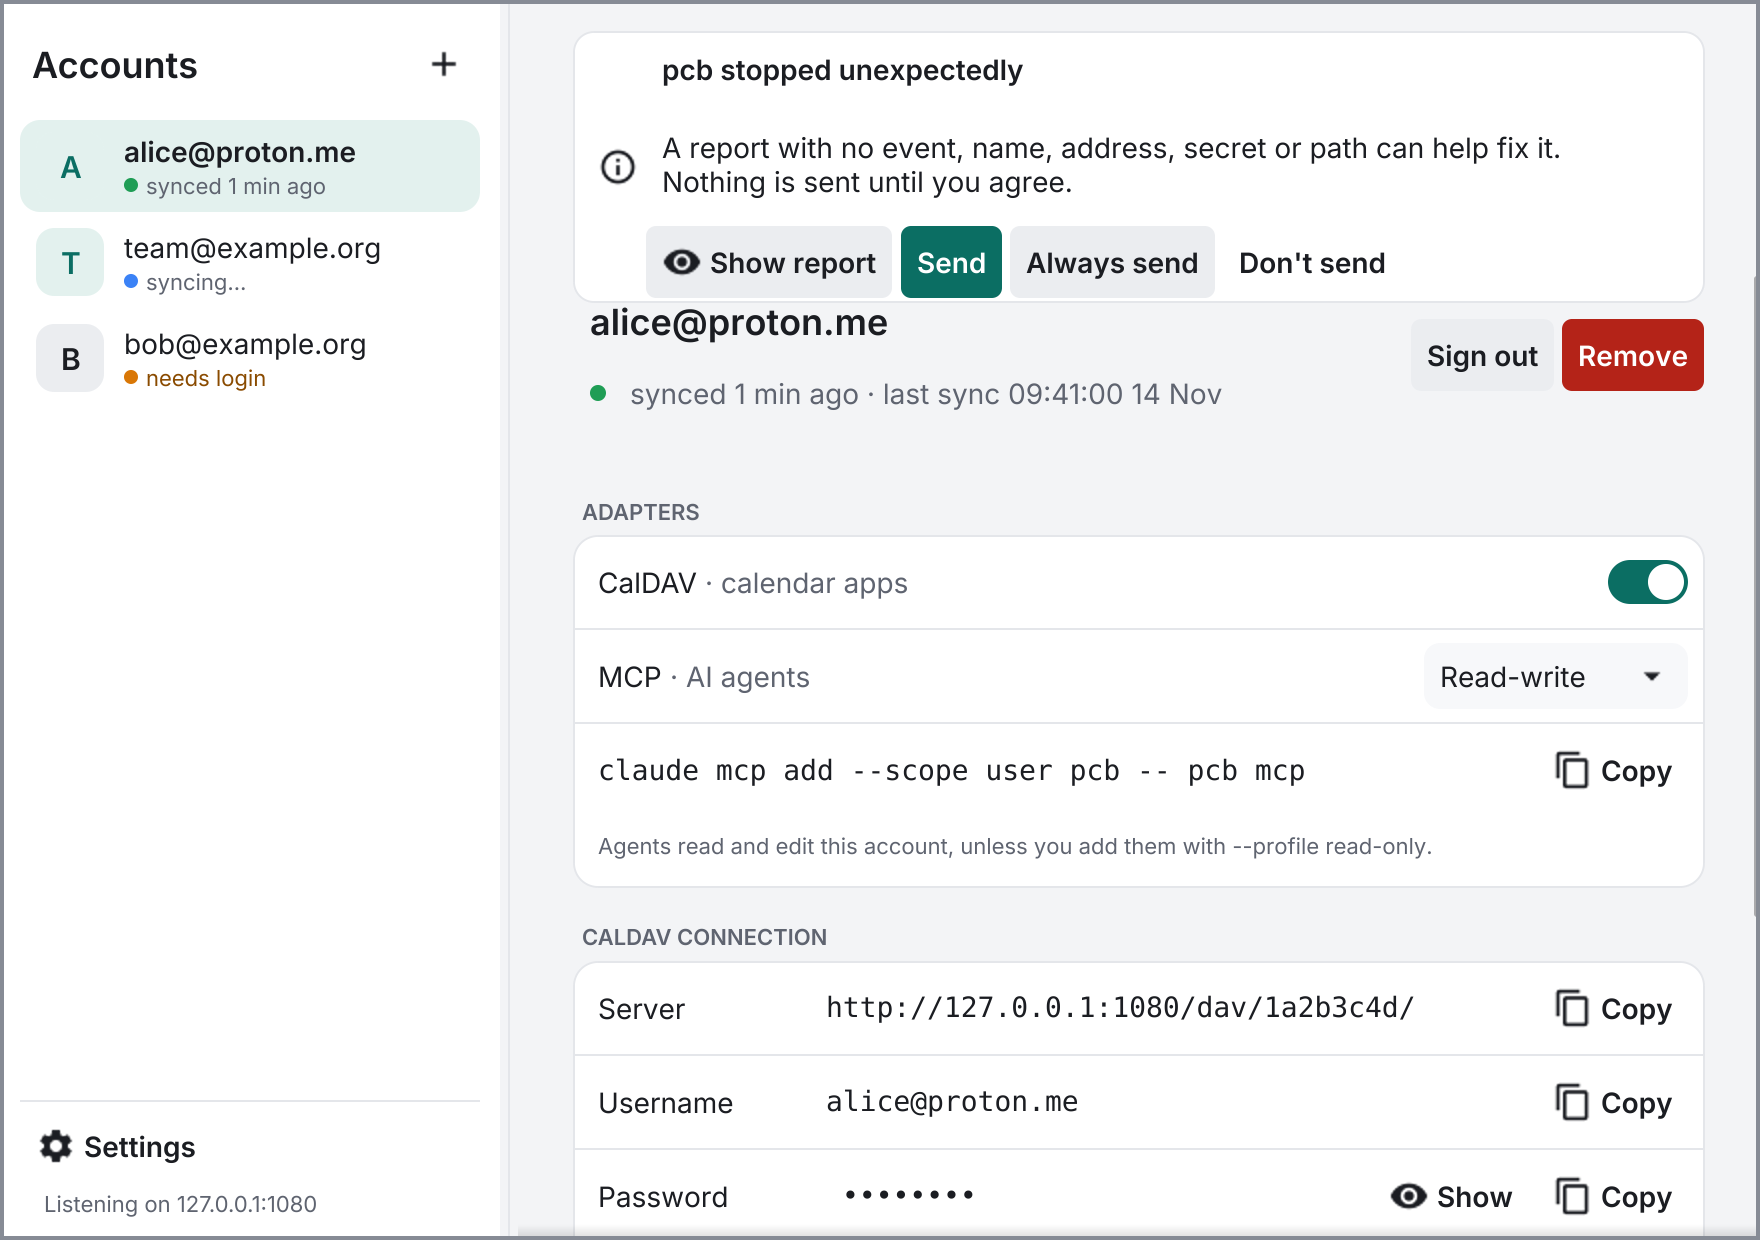
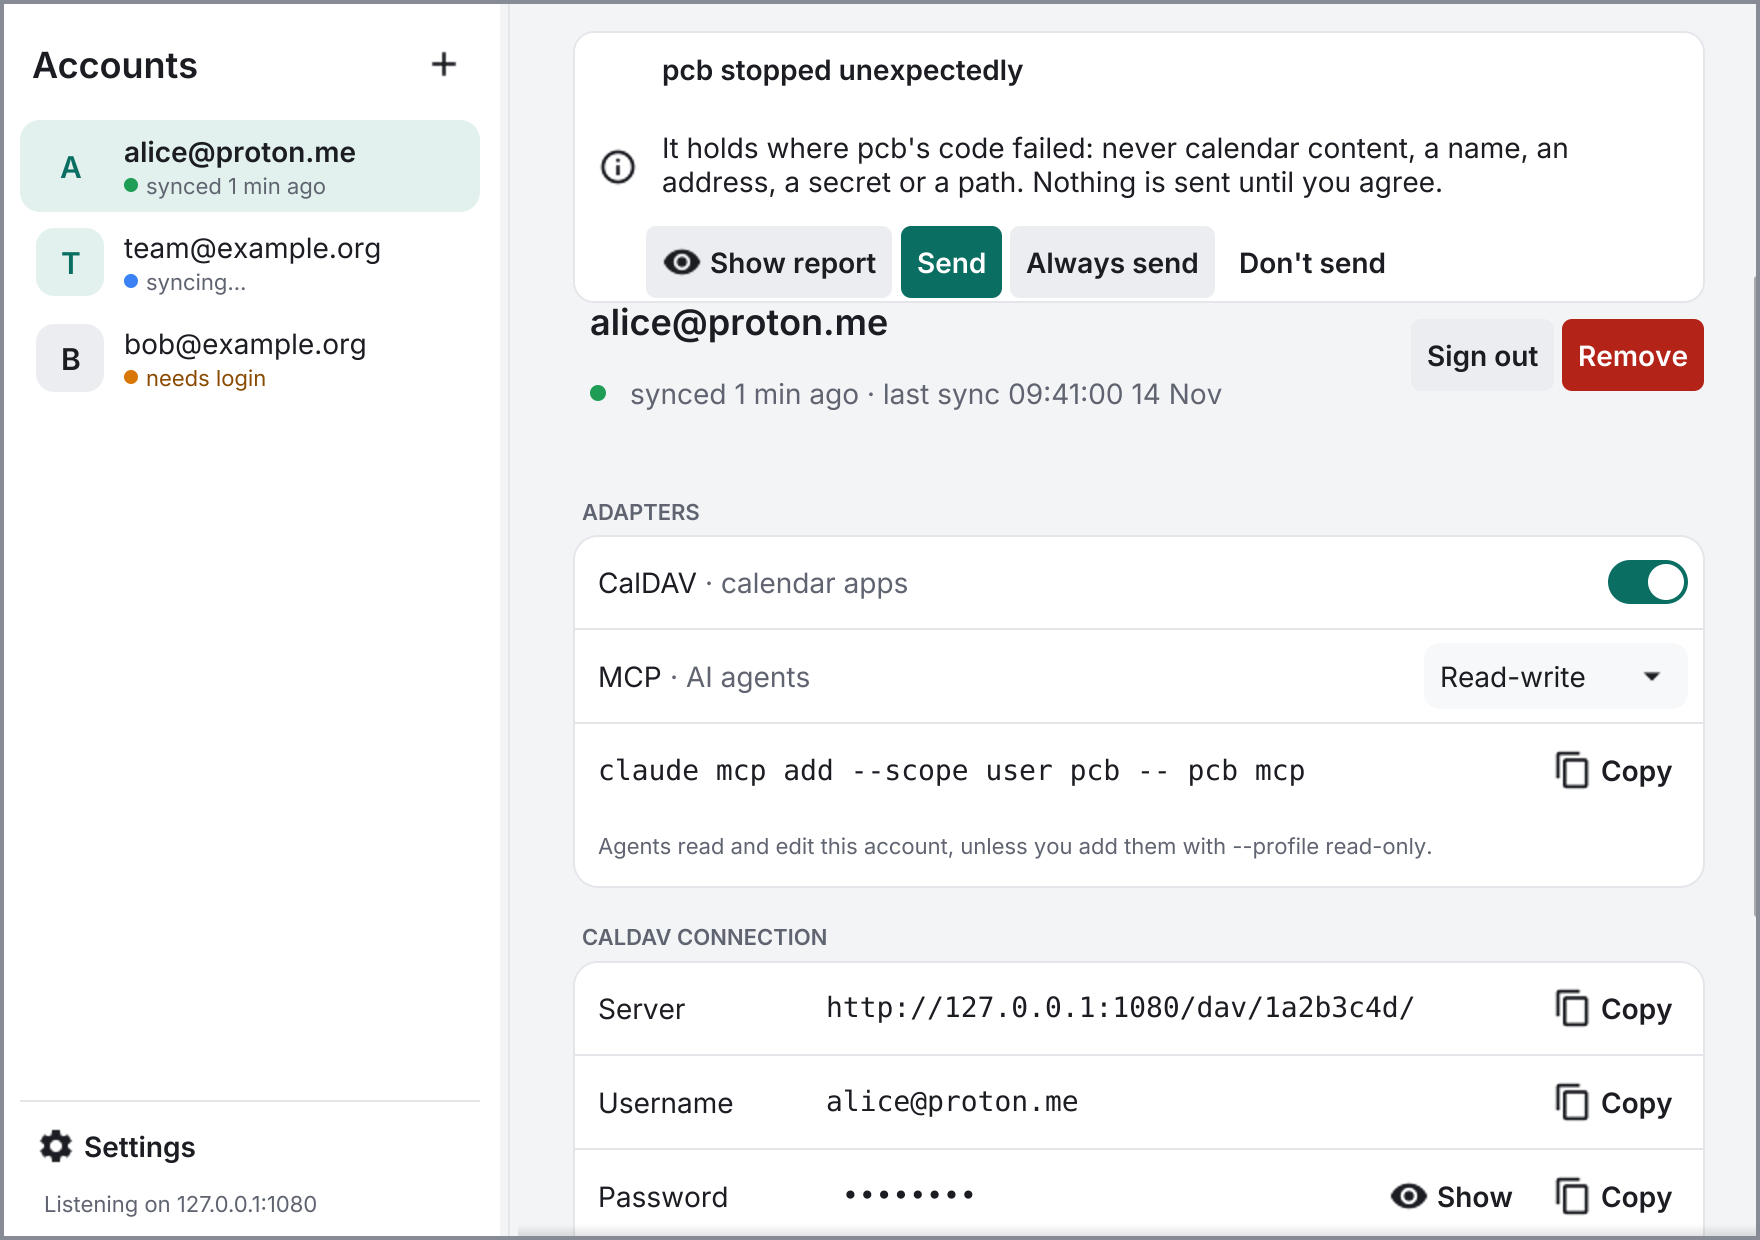
💬 Say what a crash report holds in pcb-ui's dialog
The old body read "no event", which could be taken as Sentry's event.

Claude-Session: https://claude.ai/code/session_01TYfkciRjawz7EKtnKv9QiX

Changed region(s): [[0.375, 0.0919, 0.875, 0.1532]]

diff --git a/internal/ui/desktop/reports_test.go b/internal/ui/desktop/reports_test.go
@@ -51,6 +51,9 @@ func TestReportDialogTitleAndButtons(t *testing.T) {
 		if !f.has(tc.title) {
 			t.Fatalf("no dialog titled %q: %v", tc.title, f.texts())
 		}
+		if body := "It holds where pcb's code failed: never calendar content, a name, an address, a secret or a path. Nothing is sent until you agree."; !slices.Contains(f.texts(), body) {
+			t.Errorf("the dialog does not say %q: %v", body, f.texts())
+		}
 		for _, b := range []string{"Show report", "Send", "Always send", "Don't send", "Close"} {
 			if !f.hasButton(b) {
 				t.Errorf("crashed=%v: no %q button: %v", tc.crashed, b, f.texts())

diff --git a/internal/ui/desktop/reports.go b/internal/ui/desktop/reports.go
@@ -24,7 +24,7 @@ type ReportsModel interface {
 const (
 	reportsCrashed = "pcb stopped unexpectedly"
 	reportsError   = "pcb ran into an unexpected error"
-	reportsAsk     = "A report with no event, name, address, secret or path can help fix it. Nothing is sent until you agree."
+	reportsAsk     = "It holds where pcb's code failed: never calendar content, a name, an address, a secret or a path. Nothing is sent until you agree."
 )
 
 func reportsTitle(crashed bool) string {
